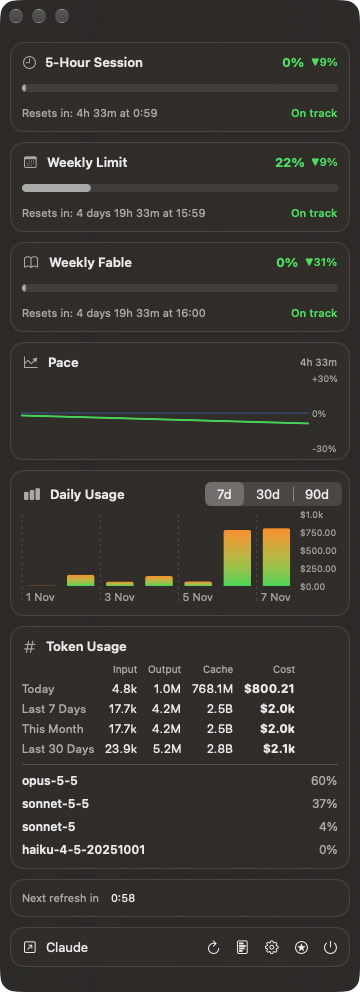
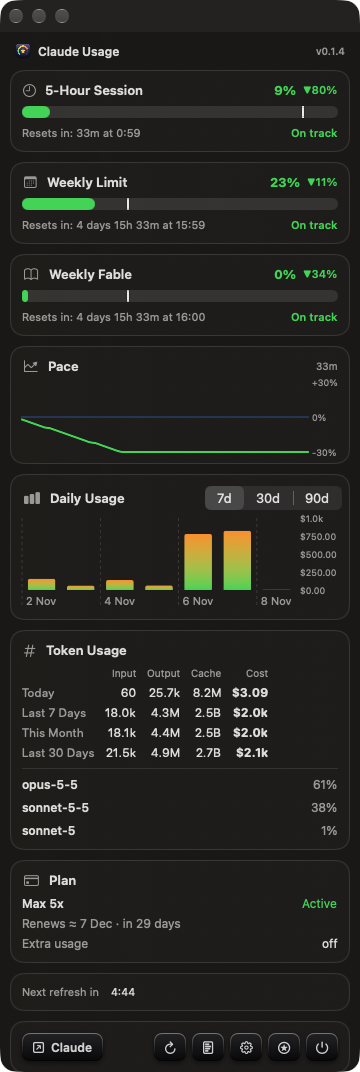
feat(app): panel title with version, single version source; refresh README screenshot

diff --git a/App/Views/PopoverView.swift b/App/Views/PopoverView.swift
@@ -16,6 +16,7 @@ struct PopoverView: View {
     var body: some View {
         ScrollView {
             VStack(spacing: 10) {
+                titleRow
                 if let e = service.error {
                     Label(e + (service.limits?.isEstimated == false ? " — showing last known values" : " — showing local estimate"), systemImage: "exclamationmark.triangle.fill")
                         .font(.caption).foregroundStyle(.orange).frame(maxWidth: .infinity, alignment: .leading)
@@ -61,6 +62,16 @@ struct PopoverView: View {
                 if scheme == .dark { Color.black.opacity(0.42) }   // deepen the panel in dark mode
             }
         )
+    }
+
+    private var titleRow: some View {
+        HStack(spacing: 6) {
+            Image(nsImage: NSApp.applicationIconImage).resizable().frame(width: 18, height: 18)
+            Text("Claude Usage").font(.system(size: 12, weight: .semibold))
+            Spacer()
+            Text("v\(AppInfo.version)").font(.system(size: 10, weight: .medium)).foregroundStyle(.secondary)
+        }
+        .padding(.horizontal, 4)
     }
 
     private var footer: some View {

diff --git a/App/Views/AboutView.swift b/App/Views/AboutView.swift
@@ -4,16 +4,12 @@ import AppKit
 struct AboutView: View {
     static let repoURL = URL(string: "https://github.com/israelio/claude-usage-widget")!
 
-    private var version: String {
-        Bundle.main.object(forInfoDictionaryKey: "CFBundleShortVersionString") as? String ?? "dev"
-    }
-
     var body: some View {
         VStack(spacing: 10) {
             Image(nsImage: NSApp.applicationIconImage)
                 .resizable().frame(width: 72, height: 72)
             Text("Claude Usage").font(.title3.bold())
-            Text("Version \(version)").font(.caption).foregroundStyle(.secondary)
+            Text("Version \(AppInfo.version)").font(.caption).foregroundStyle(.secondary)
 
             Divider().padding(.vertical, 2)
 

diff --git a/App/AppInfo.swift b/App/AppInfo.swift
@@ -1,0 +1,8 @@
+import Foundation
+
+enum AppInfo {
+    /// Marketing version stamped into the build (Config.xcconfig / release scripts).
+    static var version: String {
+        Bundle.main.object(forInfoDictionaryKey: "CFBundleShortVersionString") as? String ?? "dev"
+    }
+}

diff --git a/README.md b/README.md
@@ -16,12 +16,13 @@ A native macOS menu bar app (plus desktop widgets) that shows your **Claude Code
 
 ## Features
 
-Top to bottom, the panel shows:
+Top to bottom, the panel shows its title and version, then:
 
 - **5-Hour Session / Weekly Limit / Weekly Fable** — percent used, a progress bar, and when the window resets (countdown plus clock time). The green/red `▼9%` / `▲9%` next to the percent is how far you are below/above a perfectly even burn rate for that window. The label on the right says **On track**, **Ahead of pace** or **Will exceed**, based on where your current rate would land at reset. The third card is the per-model weekly window (Fable, when your plan has one).
 - **Pace** — a chart of your pace over the current 5-hour window. Above the 0% line means you are using it faster than evenly; below means slower. It fills in as the app collects samples.
 - **Daily Usage** — cost per day with a **7d / 30d / 90d** switch.
 - **Token Usage** — input, output and cache tokens plus cost for Today, Last 7 Days, This Month and Last 30 Days, then each model's share of your last 30 days of spend. Costs are API-equivalent estimates from an editable price table, not your subscription bill.
+- **Plan** — your plan (for example Max 5x) and subscription status, the estimated renewal date, and extra-usage spend if you have it enabled. Anthropic doesn't expose the renewal date, so it is estimated as the next monthly anniversary of your subscription start; annual plans renew on a different schedule.
 - **Next refresh** — countdown to the next poll. If the live endpoint is unreachable it shows "updated Xm ago" or an "estimated" badge instead.
 - **Footer** — open Claude's usage page, refresh now, open the 90-day History window, Settings, About, and Quit.
 
